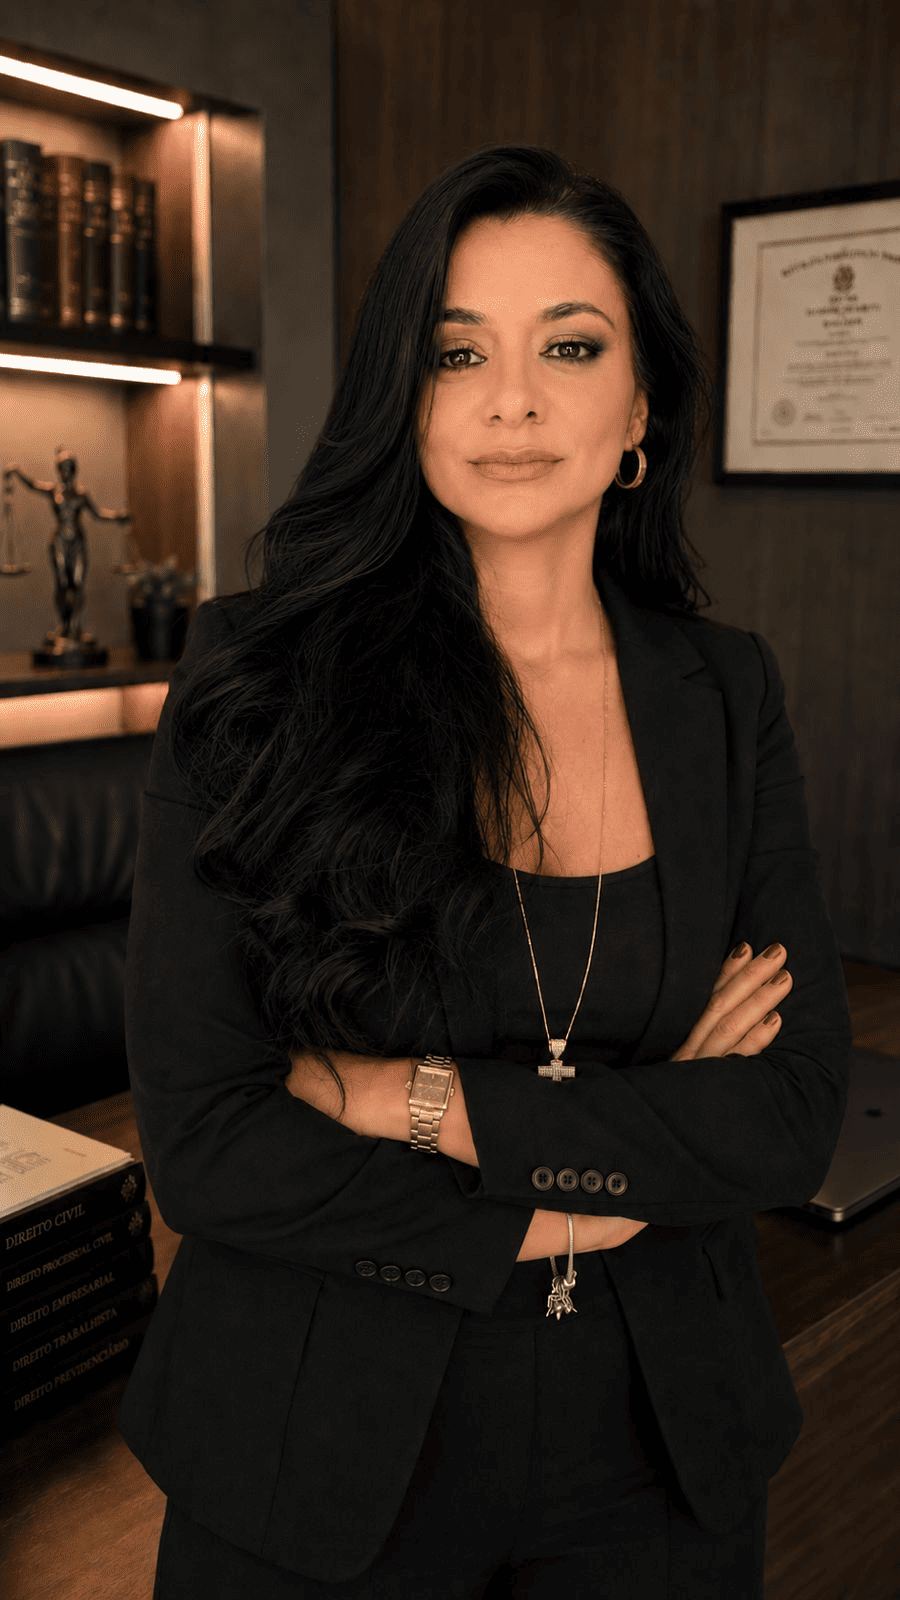
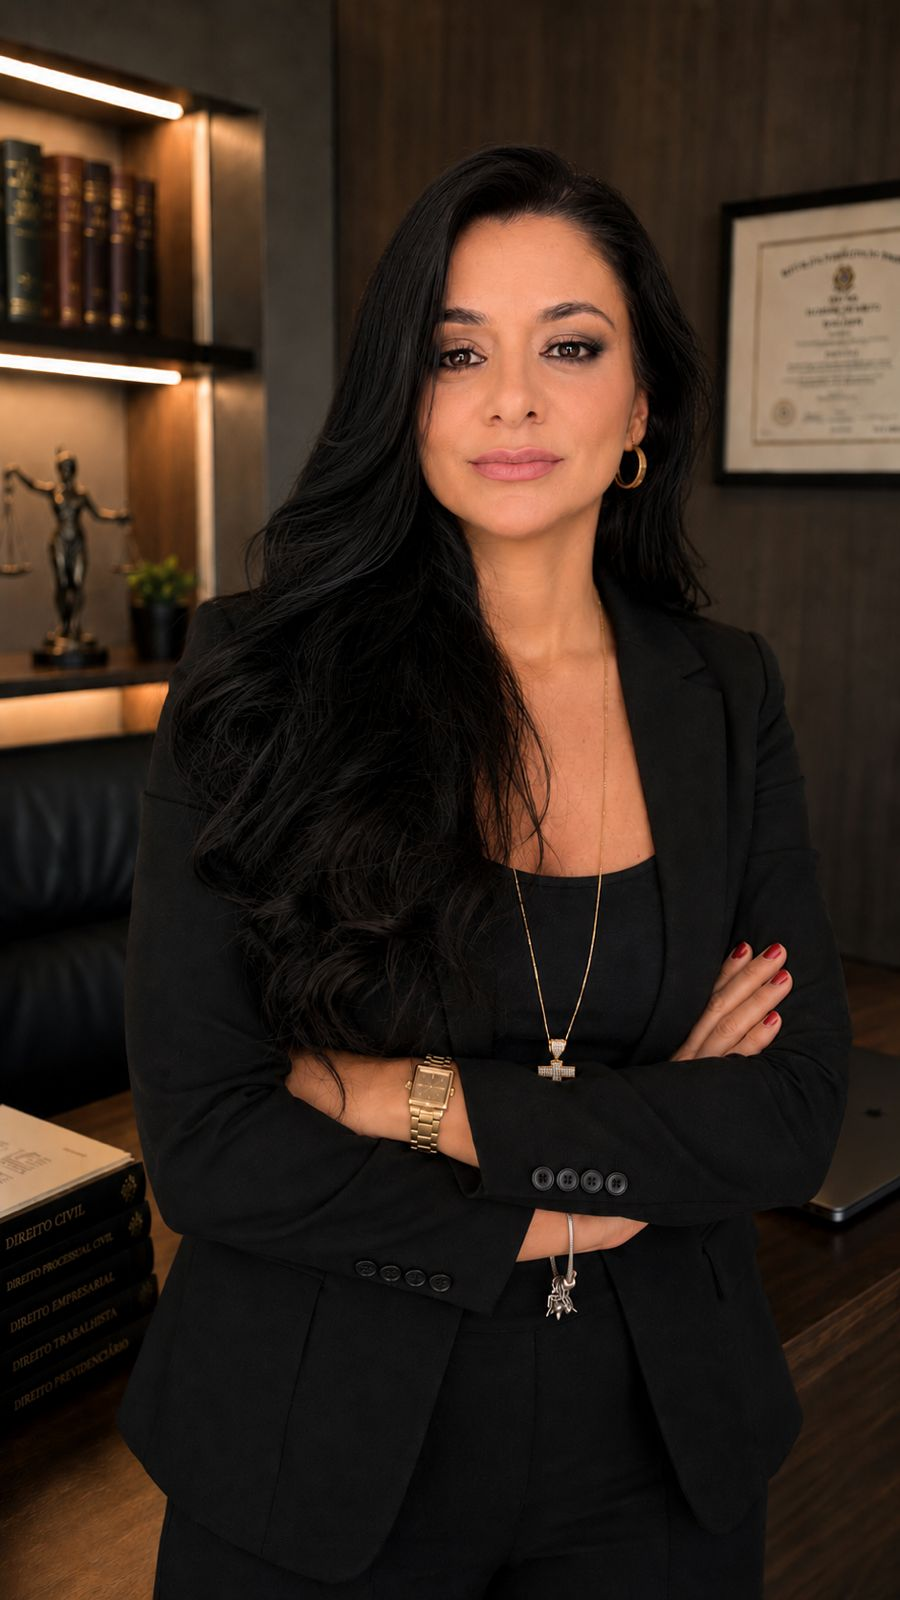
Ajuste de foto

diff --git a/style.css b/style.css
@@ -256,8 +256,8 @@ nav a:hover{
 .hero-imagem img {
     width: 380px;
     max-width: 100%;
-    height: 500px;
-    object-fit: cover;
+    height: auto;
+    object-fit: contain;
     border-radius: 20px;
     box-shadow: 0 15px 40px rgba(0,0,0,.15);
 }